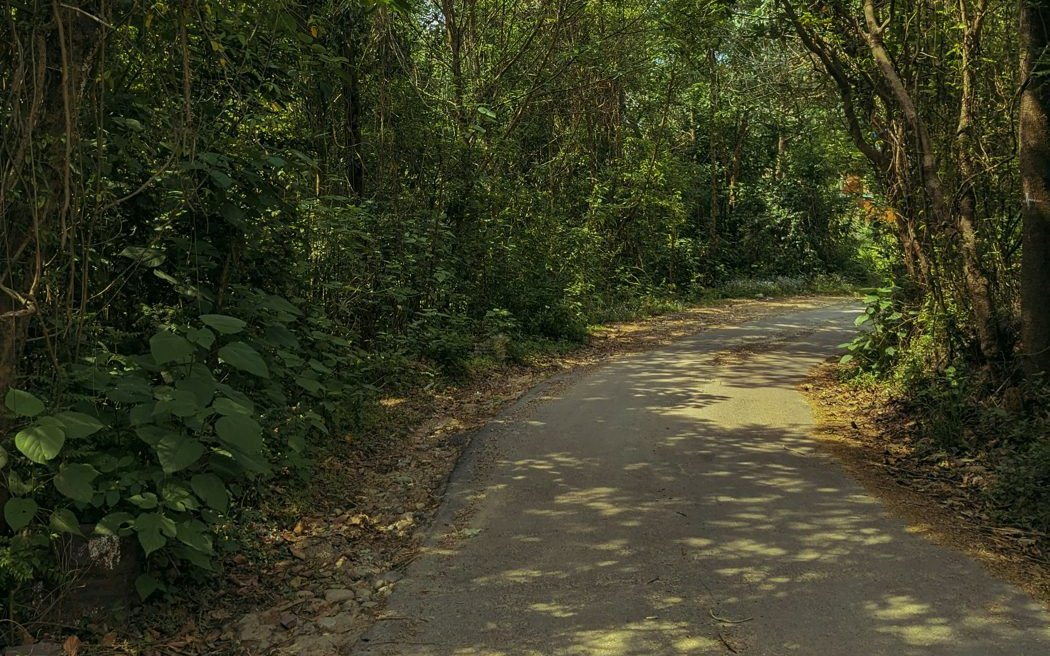
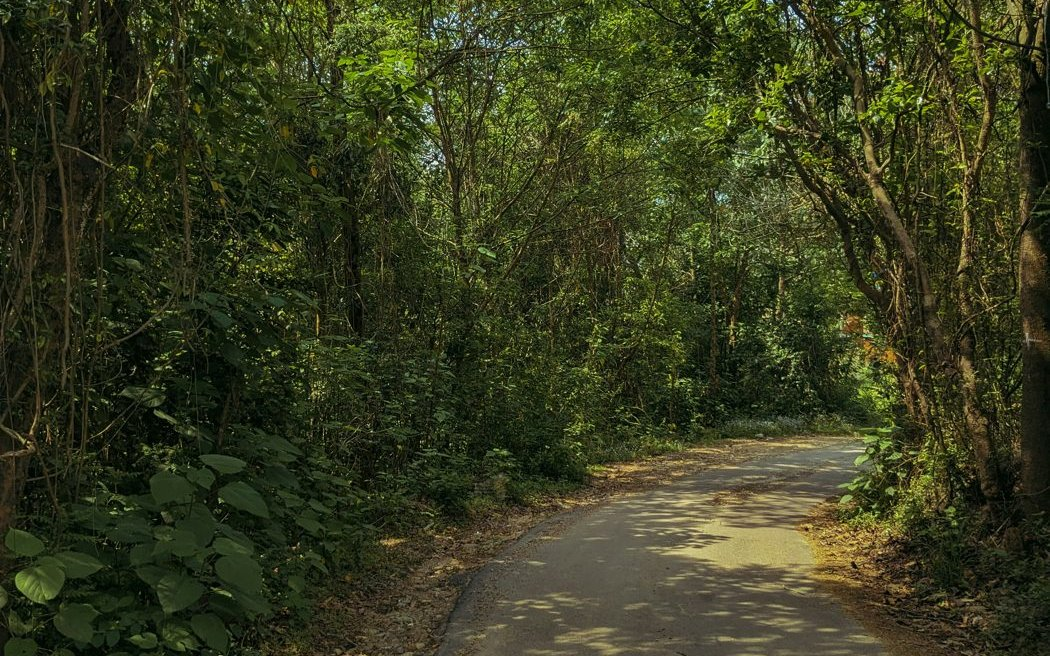
Add files via upload

diff --git a/index.html b/index.html
@@ -254,7 +254,7 @@
       </article>
 
       <article class="group-card fade-up fade-up--delay-1">
-        <div class="group-card__image img-placeholder img-placeholder--landscape img-placeholder--photo"><img src="assets/bergpfad-himmel.jpg" alt="Schmaler Bergpfad über eine Wiese, dahinter bewaldete Gipfel und blauer Himmel" loading="lazy"><span class="img-placeholder__label">Pfad · Weite</span></div>
+        <div class="group-card__image img-placeholder img-placeholder--landscape img-placeholder--photo"><img src="assets/bergpfad-blumenweg.jpg" alt="Schmaler Bergpfad zwischen Wildblumen, dahinter ein bewaldetes Tal" loading="lazy"><span class="img-placeholder__label">Pfad · Weite</span></div>
         <div class="group-card__body">
           <p class="group-card__title">Junge Menschen</p>
           <p class="group-card__text">Für Jugendliche und junge Erwachsene: den eigenen Weg finden, Übergänge meistern und Selbstwirksamkeit erleben – auf Augenhöhe und mit Respekt für den eigenen Weg.</p>
@@ -263,7 +263,7 @@
       </article>
 
       <article class="group-card fade-up fade-up--delay-2">
-        <div class="group-card__image img-placeholder img-placeholder--landscape img-placeholder--photo"><img src="assets/waldpfad-sonne.jpg" alt="Sandiger Waldpfad, der zwischen den Bäumen ins Licht führt" loading="lazy"><span class="img-placeholder__label">Wald · Licht</span></div>
+        <div class="group-card__image img-placeholder img-placeholder--landscape img-placeholder--photo"><img src="assets/waldpfad-abendlicht.jpg" alt="Waldweg, der im warmen Abendlicht zwischen dichten Bäumen hindurchführt" loading="lazy"><span class="img-placeholder__label">Wald · Licht</span></div>
         <div class="group-card__body">
           <p class="group-card__title">Fachpersonen</p>
           <p class="group-card__text">Für Menschen in der Sozialen Arbeit und in begleitenden Berufen: Rolle, Belastung und die eigenen Grenzen anschauen – dazu Vorträge und Workshops.</p>
